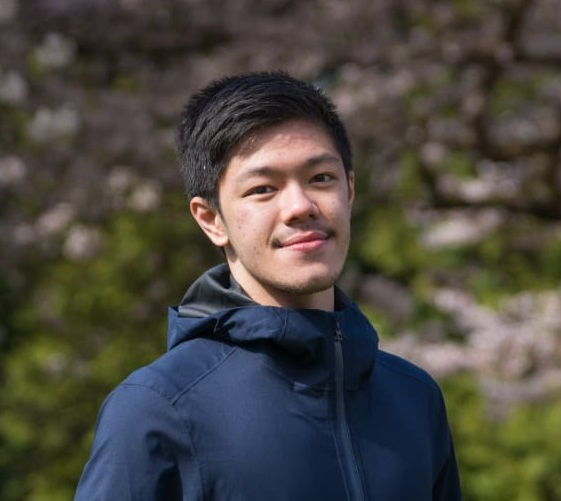
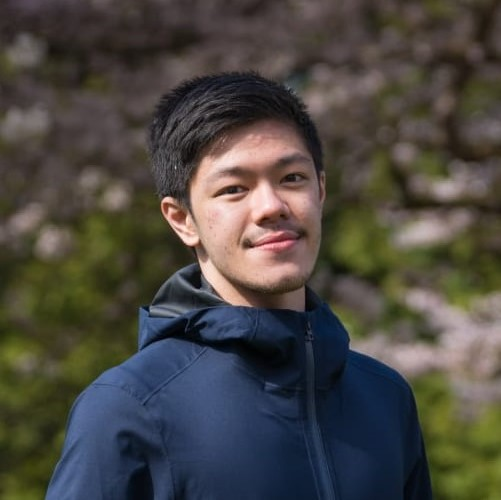
reshape image

diff --git a/index.html b/index.html
@@ -44,8 +44,8 @@
     <div class="row mx-auto">
       <!-- Welcome Image -->
       <div class="col-md-6 welcome-body">
-        <div class="welcome-avatar">
-          <img class="avatar" src="images/alvin.jpg" alt="Alvin Hendricks">
+        <div class="welcome-avatar text-center">
+          <img class="avatar img-thumbnail border-0 rounded-circle" src="images/alvin.jpg" alt="Alvin Hendricks">
         </div>
       </div>
 

diff --git a/assets/styles.css b/assets/styles.css
@@ -32,9 +32,7 @@ footer {
 }
 
 .avatar {
-  height: 100%;
-  width: 100%;
-  border-radius: 25%;
+  border-radius: 50%;
 }
 
 .internal-btn {
@@ -68,6 +66,11 @@ footer {
 
   footer {
     text-align: center;
+  }
+
+  .welcome-content {
+    margin-bottom: auto;
+    padding-top: 0;
   }
 
   .contact-text {
